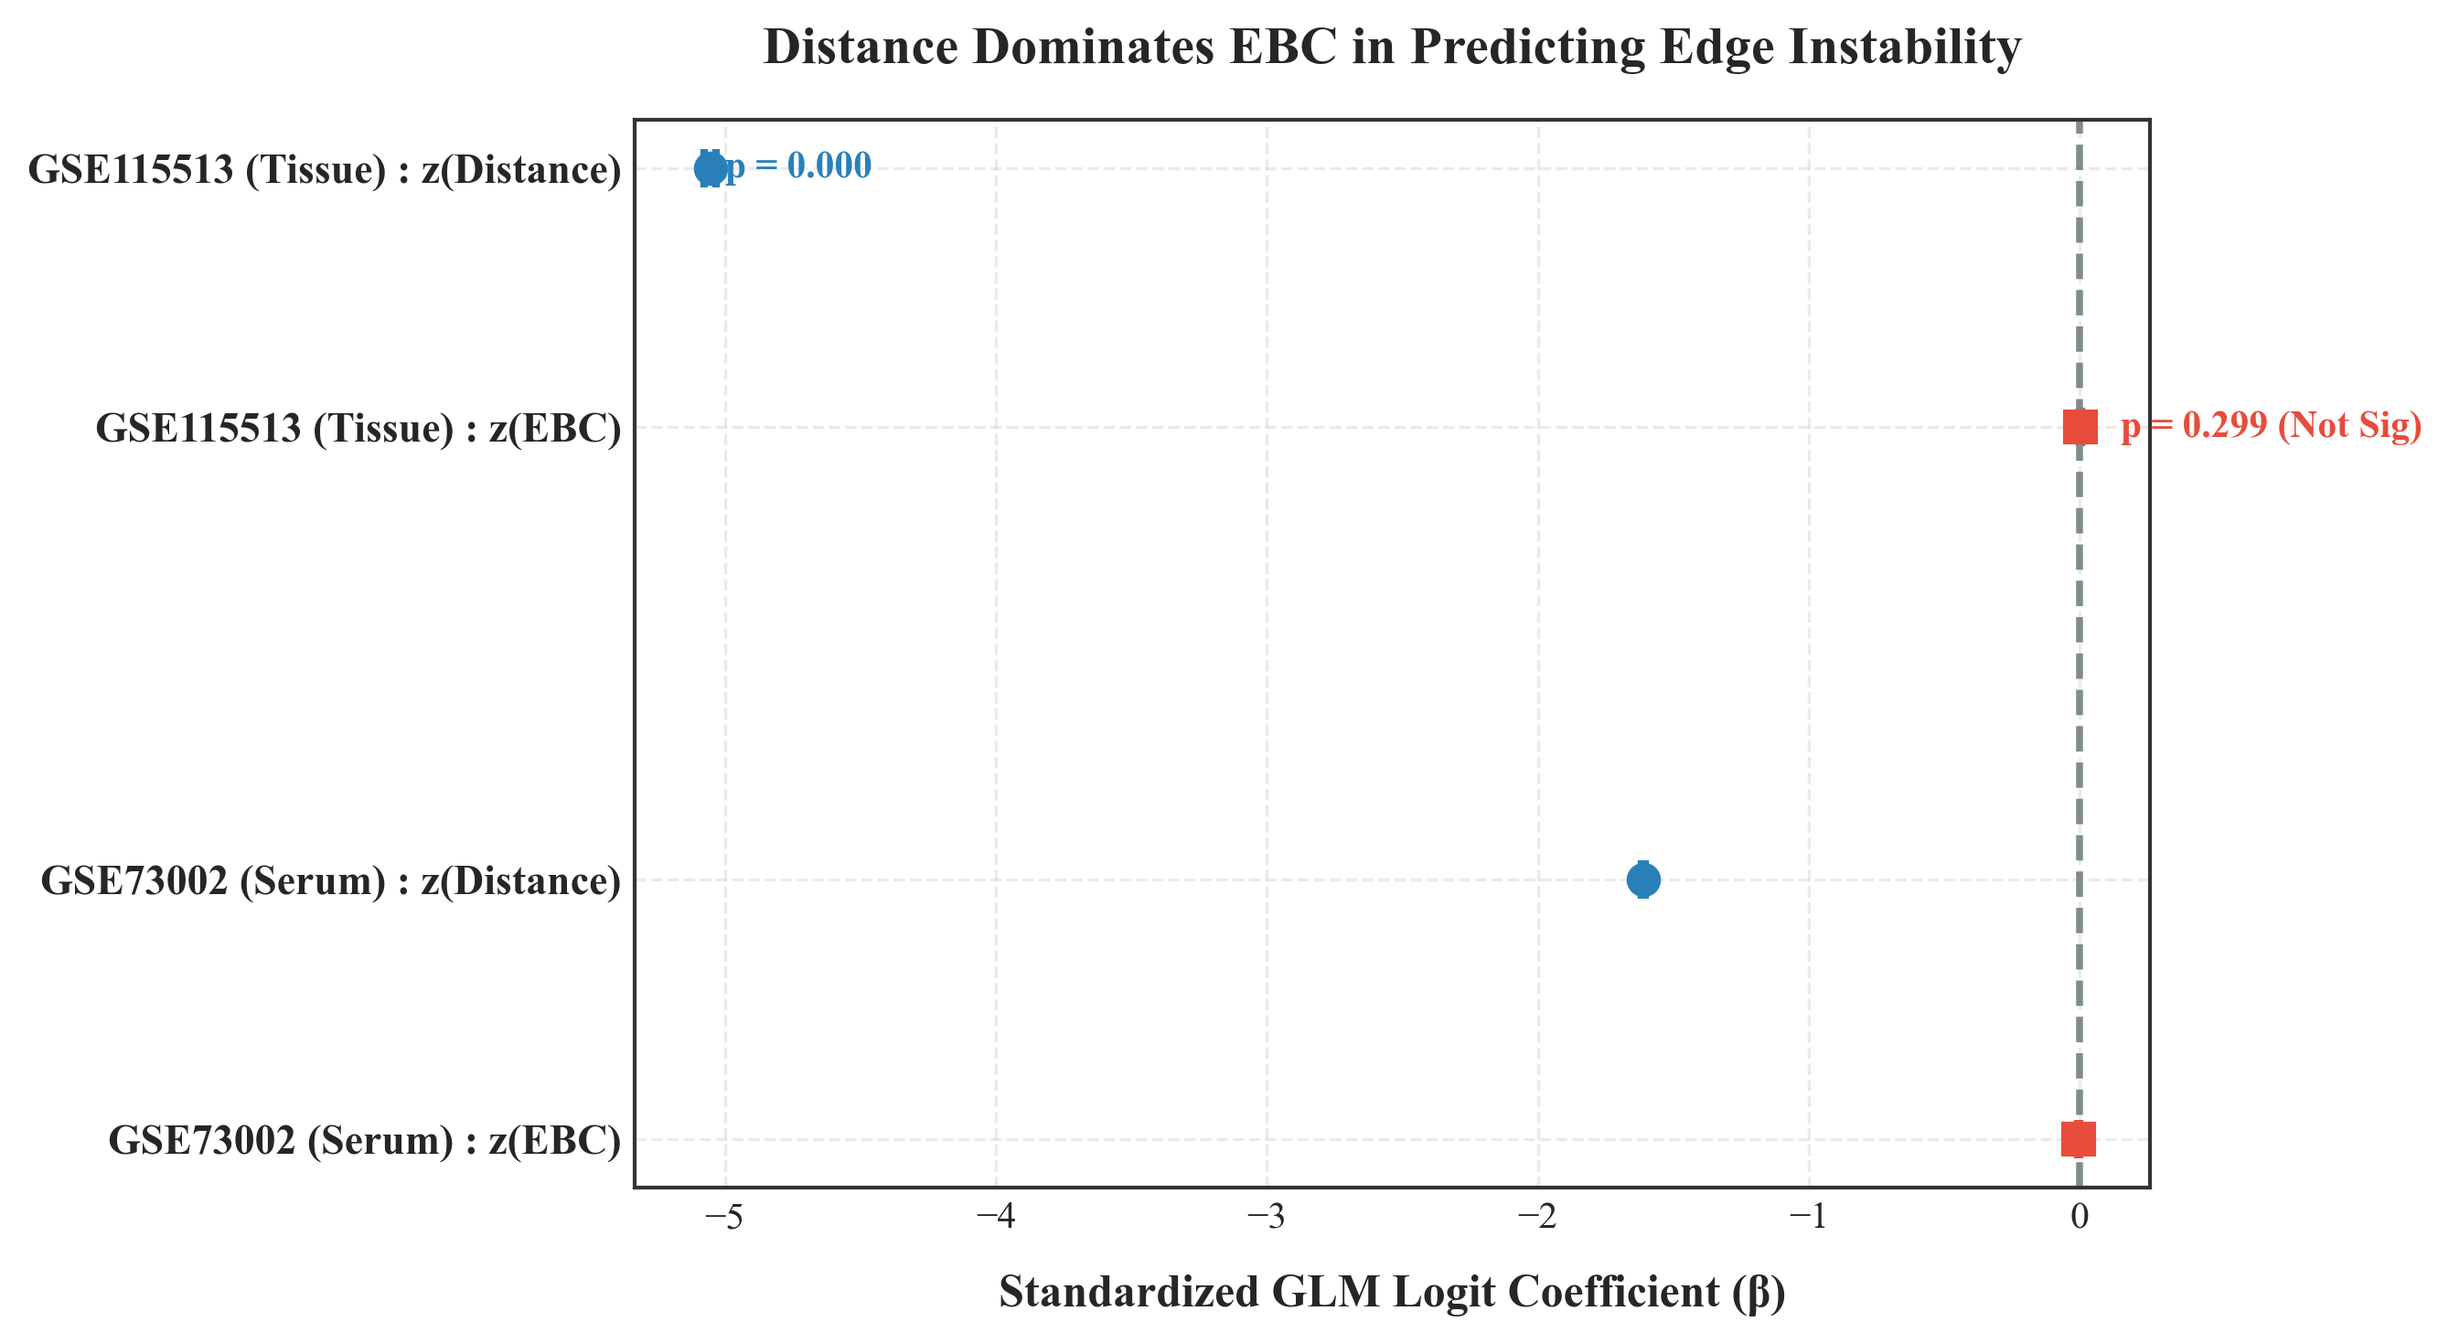
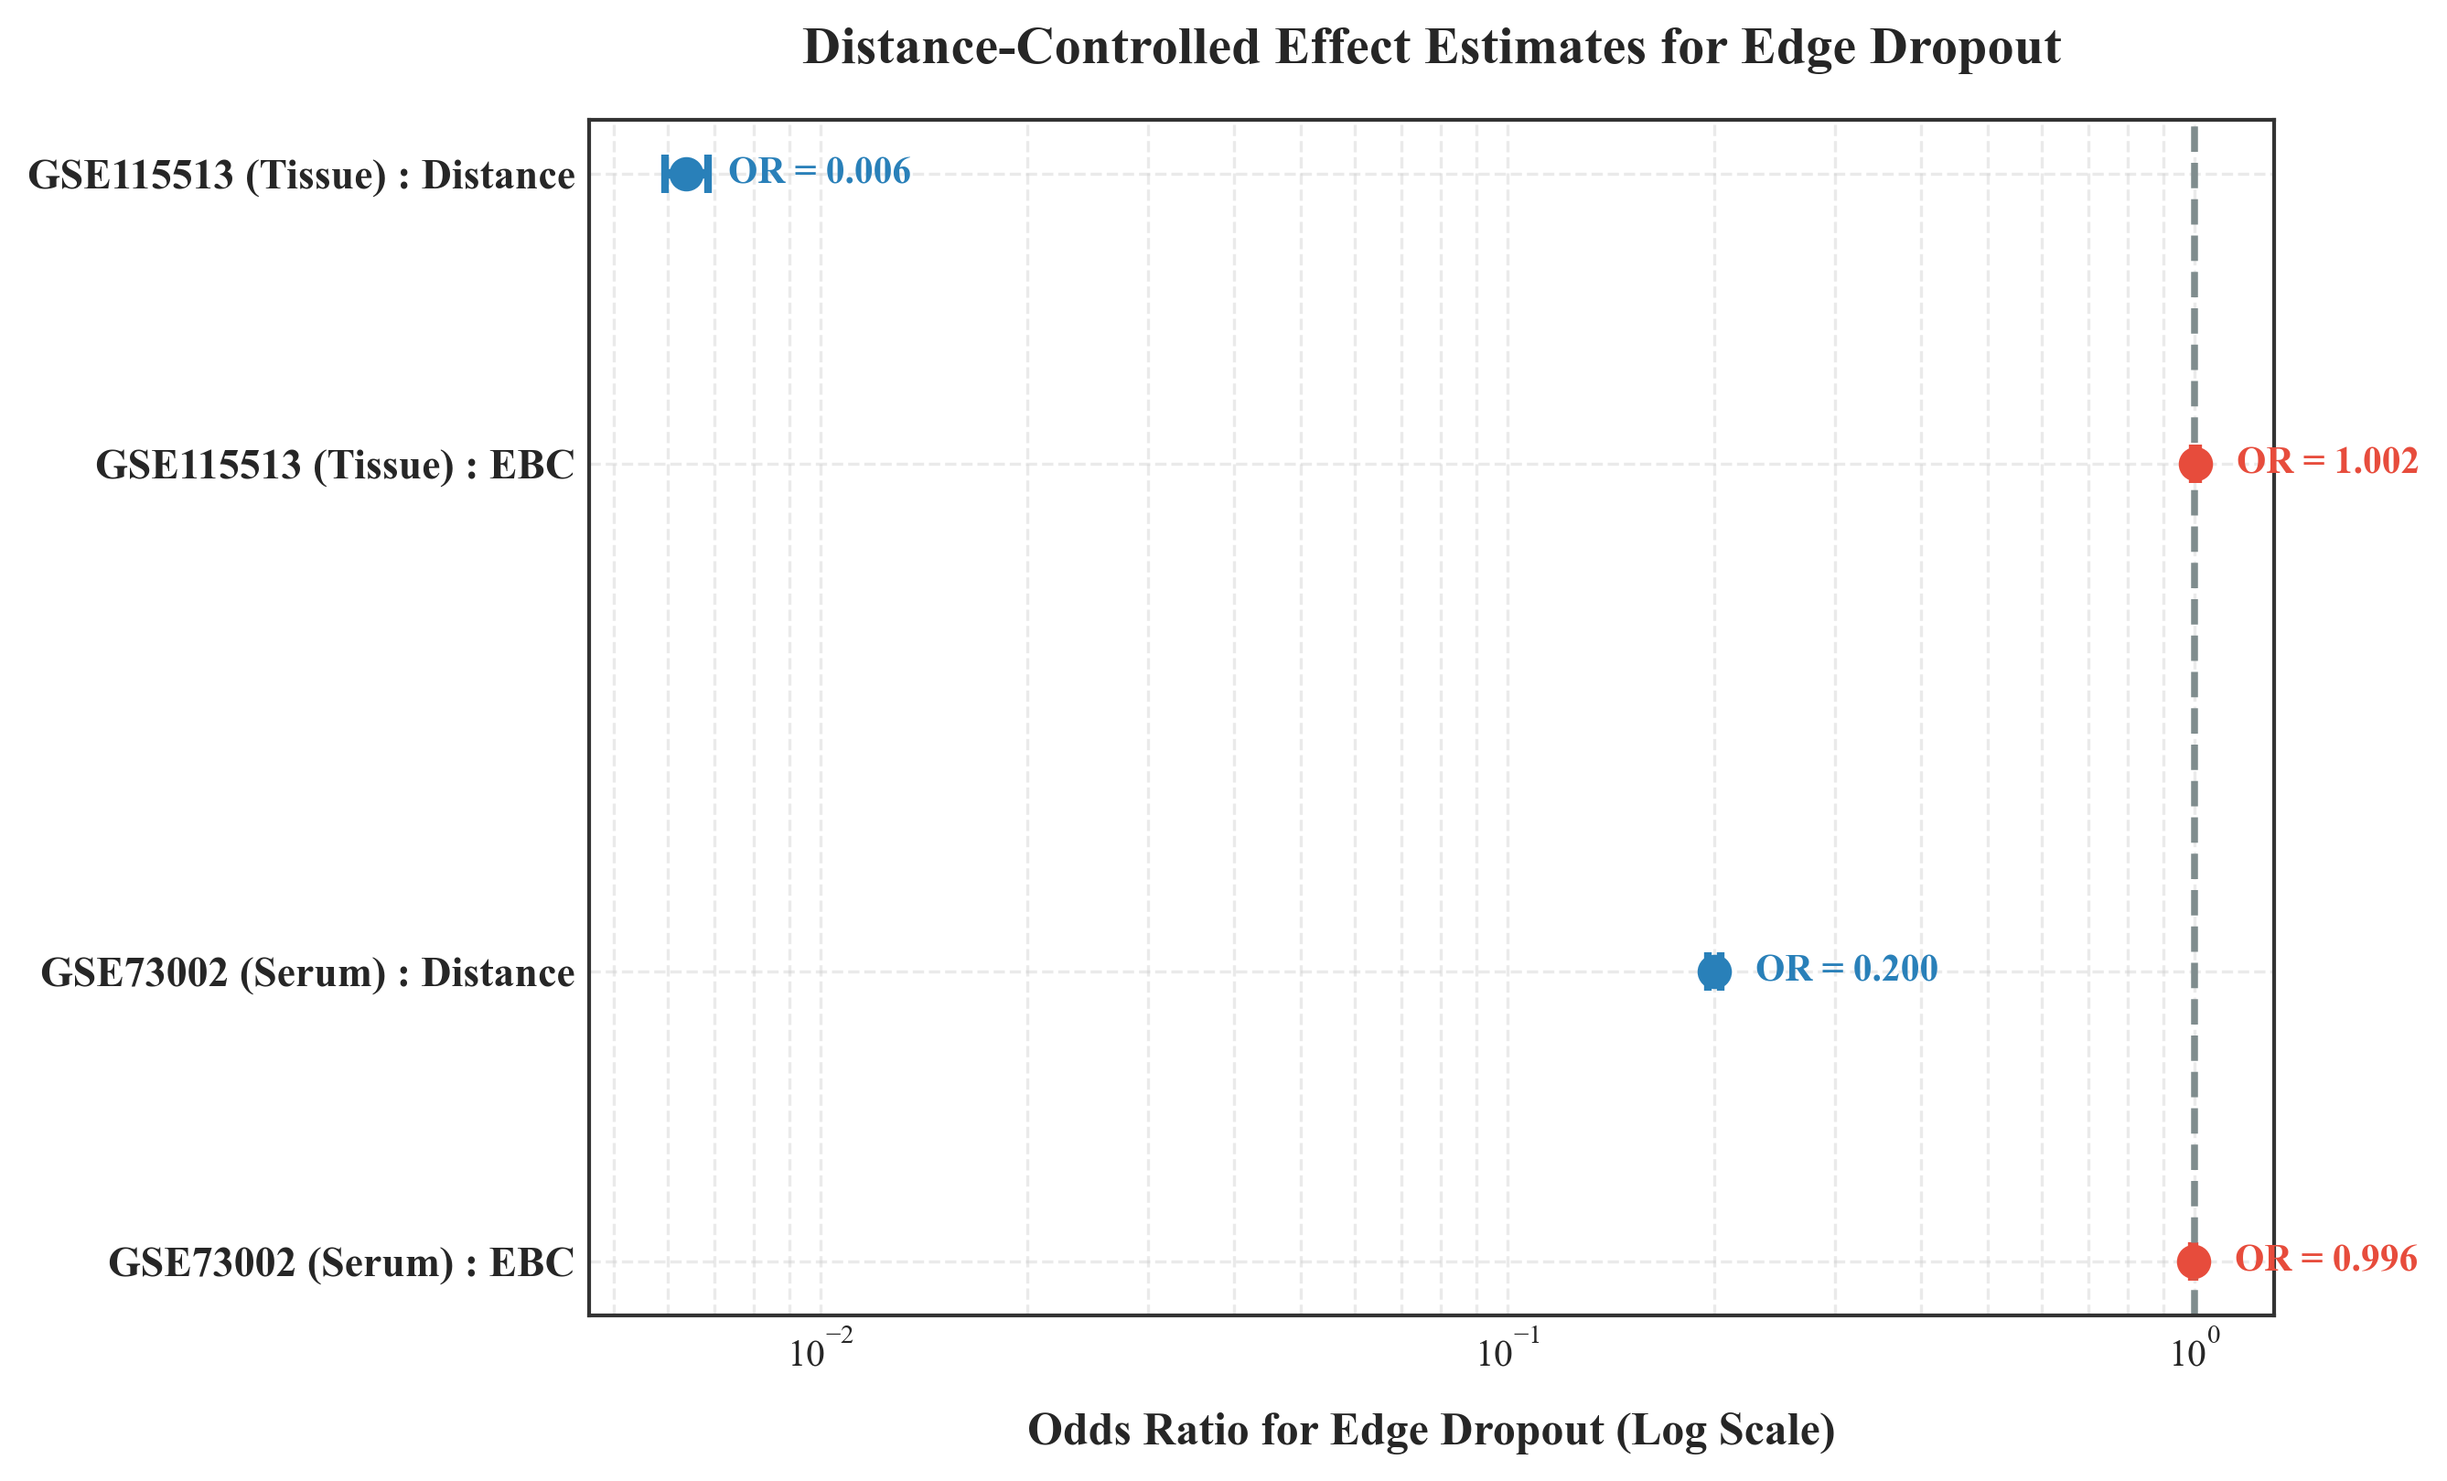
Execute Node-Clustered GLM sensitivity analysis, generate log-scale Odds Ratio Forest Plot (Figure 2) and Node-Level CV Violin Plot (Figure 4) in 'fuck it/' directory

diff --git a/generate_final_sensitivity_analysis.py b/generate_final_sensitivity_analysis.py
@@ -1,0 +1,345 @@
+"""
+Final Sensitivity Analysis & Updated Visualizations:
+1. Node-Clustered Binomial GLM (cov_type='cluster' on Node_A) with Odds Ratios (OR) & 95% CIs
+2. Figure 2: Odds Ratio Forest Plot (Log Scale X-Axis) -> 'fuck it/fig2_glm_coefficients.png'
+3. Figure 4: Node-Level Topological Stability (Hard Degree CV vs Soft Strength CV) -> 'fuck it/fig4_weighted_robustness.png'
+"""
+
+import os
+import gzip
+import io
+import time
+import numpy as np
+import pandas as pd
+import networkx as nx
+import scipy.stats as stats
+from scipy.stats import median_abs_deviation
+import statsmodels.api as sm
+import matplotlib.pyplot as plt
+import matplotlib
+import seaborn as sns
+
+matplotlib.use('Agg')
+
+# Enable publication font styling
+plt.style.use('seaborn-v0_8-whitegrid' if 'seaborn-v0_8-whitegrid' in plt.style.available else 'default')
+plt.rcParams['font.family'] = 'serif'
+plt.rcParams['font.serif'] = ['Times New Roman', 'DejaVu Serif', 'Liberation Serif']
+plt.rcParams['axes.edgecolor'] = '#333333'
+plt.rcParams['axes.linewidth'] = 1.0
+
+# Global Random Seed
+SEED = 42
+np.random.seed(SEED)
+
+OUTPUT_DIR = "./fuck it"
+os.makedirs(OUTPUT_DIR, exist_ok=True)
+
+print("\n" + "=" * 90)
+print(" STARTING NODE-CLUSTERED GLM SENSITIVITY ANALYSIS & UPDATED FIGURES ")
+print("=" * 90)
+
+
+def load_uncensored_cohort(filepath, filter_key, filter_val, top_k=500):
+    with gzip.open(filepath, 'rt', encoding='utf-8', errors='ignore') as f:
+        lines = f.readlines()
+        
+    data_start = 0
+    char_lines = []
+    for idx, l in enumerate(lines):
+        if l.startswith('!series_matrix_table_begin'):
+            data_start = idx + 1
+            break
+        if l.startswith('!Sample_characteristics_ch1'):
+            char_lines.append([x.replace('"', '').strip() for x in l.split('\t')[1:]])
+            
+    expr_lines = [l for l in lines[data_start:] if not l.startswith('!') and l.strip()]
+    df_raw = pd.read_csv(io.StringIO(''.join(expr_lines)), sep='\t', index_col=0).apply(pd.to_numeric, errors='coerce')
+    
+    target_char = next(cl for cl in char_lines if any(filter_val.lower() in x.lower() for x in cl))
+    mask = [True if filter_val.lower() in x.lower() else False for x in target_char]
+    sub_ids = df_raw.columns[mask]
+    df_sub = df_raw[sub_ids].copy()
+    
+    missing_frac = df_sub.isnull().mean(axis=1)
+    df_clean = df_sub.loc[missing_frac <= 0.20].dropna(axis=0).copy()
+    
+    if (df_clean.values > 50).any():
+        df_clean = np.log2(df_clean + 1.0)
+        
+    probe_mads = median_abs_deviation(df_clean.values, axis=1)
+    mad_series = pd.Series(probe_mads, index=df_clean.index)
+    top_probes = mad_series.nlargest(top_k).index
+    df_top = df_clean.loc[top_probes].copy()
+    
+    return df_top, df_sub.shape[1]
+
+
+def fast_spearman_matrix(X_mat):
+    X_ranked = stats.rankdata(X_mat, axis=0)
+    R = np.corrcoef(X_ranked, rowvar=False)
+    R = np.nan_to_num(R, nan=0.0)
+    np.fill_diagonal(R, 1.0)
+    return R
+
+
+def run_node_clustered_glm(filepath, cohort_name, filter_key, filter_val, theta_target):
+    print(f"\n" + "=" * 90)
+    print(f" PIPELINE & NODE-CLUSTERED GLM FOR: {cohort_name} (theta={theta_target:.4f}) ")
+    print("=" * 90)
+    
+    df_top, n_samples = load_uncensored_cohort(filepath, filter_key, filter_val, top_k=500)
+    X_mat = df_top.T.values
+    
+    R_spearman = fast_spearman_matrix(X_mat)
+    
+    A_base = (R_spearman >= theta_target).astype(np.int8)
+    np.fill_diagonal(A_base, 0)
+    G_full = nx.from_numpy_array(A_base)
+    gcc_nodes = max(nx.connected_components(G_full), key=len)
+    G_gcc = G_full.subgraph(gcc_nodes).copy()
+    
+    v_gcc = G_gcc.number_of_nodes()
+    e_gcc = G_gcc.number_of_edges()
+    
+    ebc_dict = nx.edge_betweenness_centrality(G_gcc, seed=SEED)
+    gcc_edges = list(G_gcc.edges())
+    
+    distances = np.array([abs(abs(R_spearman[u, v]) - theta_target) for u, v in gcc_edges])
+    ebc_vals = np.array([ebc_dict[e] for e in gcc_edges])
+    
+    node_A_list = [u for u, v in gcc_edges]
+    node_B_list = [v for u, v in gcc_edges]
+    
+    print(f"  * Homogeneous Sample Size N: {n_samples}, GCC Nodes: {v_gcc}, GCC Edges: {e_gcc}")
+    print(f"  * Running Fast N=1,000 Patient-Resampling Bootstraps (Fixed theta={theta_target})...")
+    
+    N_BOOT = 1000
+    drop_counts = {e: 0 for e in gcc_edges}
+    
+    # Store node degrees and strengths across bootstraps for Figure 4
+    gcc_nodes_sorted = sorted(list(gcc_nodes))
+    node_to_idx = {node: i for i, node in enumerate(gcc_nodes_sorted)}
+    
+    hard_degrees = np.zeros((N_BOOT, len(gcc_nodes_sorted)), dtype=np.float32)
+    soft_strengths = np.zeros((N_BOOT, len(gcc_nodes_sorted)), dtype=np.float32)
+    
+    rng = np.random.RandomState(SEED)
+    t_start = time.time()
+    
+    for b in range(N_BOOT):
+        b_idx = rng.choice(n_samples, size=n_samples, replace=True)
+        X_b = X_mat[b_idx, :]
+        R_b = fast_spearman_matrix(X_b)
+        
+        A_b = (R_b >= theta_target).astype(np.int8)
+        np.fill_diagonal(A_b, 0)
+        
+        # Track edge dropouts
+        for u, v in gcc_edges:
+            if A_b[u, v] == 0:
+                drop_counts[(u, v)] += 1
+                
+        # Track node degrees & strengths
+        S_b = np.abs(R_b) ** 6.0
+        np.fill_diagonal(S_b, 0)
+        
+        for i_n, n_node in enumerate(gcc_nodes_sorted):
+            hard_degrees[b, i_n] = np.sum(A_b[n_node, :])
+            soft_strengths[b, i_n] = np.sum(S_b[n_node, :])
+            
+    t_end = time.time()
+    print(f"  * Completed Fast N=1,000 Bootstraps in {t_end - t_start:.2f} s!")
+    
+    drop_array = np.array([drop_counts[e] for e in gcc_edges])
+    
+    # Z-scores
+    z_dist = (distances - np.mean(distances)) / (np.std(distances) + 1e-12)
+    z_ebc = (ebc_vals - np.mean(ebc_vals)) / (np.std(ebc_vals) + 1e-12)
+    
+    df_edges = pd.DataFrame({
+        'Node_A': node_A_list,
+        'Node_B': node_B_list,
+        'z_Distance': z_dist,
+        'z_EBC': z_ebc,
+        'drop_count': drop_array,
+        'retain_count': N_BOOT - drop_array
+    })
+    
+    endog = np.column_stack((df_edges['drop_count'], df_edges['retain_count']))
+    exog = pd.DataFrame({'const': 1.0, 'z_Distance': df_edges['z_Distance'], 'z_EBC': df_edges['z_EBC']})
+    
+    # Fit Binomial GLM clustered by Node_A
+    glm_clustered = sm.GLM(endog, exog, family=sm.families.Binomial()).fit(
+        cov_type='cluster', cov_kwds={'groups': df_edges['Node_A']}
+    )
+    
+    # Calculate Odds Ratios (OR) & 95% CIs for OR
+    params = glm_clustered.params
+    conf = glm_clustered.conf_int()
+    
+    or_dict = {
+        'z_Distance_OR': float(np.exp(params['z_Distance'])),
+        'z_Distance_OR_CI_low': float(np.exp(conf.loc['z_Distance', 0])),
+        'z_Distance_OR_CI_high': float(np.exp(conf.loc['z_Distance', 1])),
+        'z_Distance_pval': float(glm_clustered.pvalues['z_Distance']),
+        
+        'z_EBC_OR': float(np.exp(params['z_EBC'])),
+        'z_EBC_OR_CI_low': float(np.exp(conf.loc['z_EBC', 0])),
+        'z_EBC_OR_CI_high': float(np.exp(conf.loc['z_EBC', 1])),
+        'z_EBC_pval': float(glm_clustered.pvalues['z_EBC'])
+    }
+    
+    print("\n" + "-" * 80)
+    print(f" NODE-CLUSTERED BINOMIAL GLM SUMMARY: {cohort_name} ")
+    print("-" * 80)
+    print(glm_clustered.summary())
+    
+    print("\n" + "=" * 80)
+    print(f" ODDS RATIOS & 95% CONFIDENCE INTERVALS: {cohort_name} ")
+    print("=" * 80)
+    print(f"  * z_Distance OR: {or_dict['z_Distance_OR']:.6f} [95% CI: {or_dict['z_Distance_OR_CI_low']:.6f} - {or_dict['z_Distance_OR_CI_high']:.6f}] (p = {or_dict['z_Distance_pval']:.6e})")
+    print(f"  * z_EBC OR:      {or_dict['z_EBC_OR']:.6f} [95% CI: {or_dict['z_EBC_OR_CI_low']:.6f} - {or_dict['z_EBC_OR_CI_high']:.6f}] (p = {or_dict['z_EBC_pval']:.6f})")
+    print("=" * 80)
+    
+    return {
+        'cohort': cohort_name,
+        'n_samples': n_samples,
+        'v_gcc': v_gcc,
+        'e_gcc': e_gcc,
+        'theta_target': theta_target,
+        'or_dict': or_dict,
+        'hard_degrees': hard_degrees,
+        'soft_strengths': soft_strengths,
+        'gcc_nodes_sorted': gcc_nodes_sorted
+    }
+
+
+res_tissue = run_node_clustered_glm('./GSE115513_series_matrix.txt.gz', "GSE115513 (Tissue)", 'tissue', 'carcinoma', 0.8190)
+res_serum = run_node_clustered_glm('./GSE73002_series_matrix.txt.gz', "GSE73002 (Serum)", 'diagnosis', 'breast cancer', 0.9580)
+
+
+# ==============================================================================
+# FIGURE 2: ODDS RATIO FOREST PLOT (LOG SCALE X-AXIS)
+# ==============================================================================
+print("\n[STEP 2] Generating Figure 2: Odds Ratio Forest Plot (Log Scale)...")
+
+or_t = res_tissue['or_dict']
+or_s = res_serum['or_dict']
+
+plot_data = [
+    {
+        'label': 'GSE115513 (Tissue) : Distance',
+        'or': or_t['z_Distance_OR'],
+        'ci_low': or_t['z_Distance_OR_CI_low'],
+        'ci_high': or_t['z_Distance_OR_CI_high'],
+        'color': '#2980b9'
+    },
+    {
+        'label': 'GSE115513 (Tissue) : EBC',
+        'or': or_t['z_EBC_OR'],
+        'ci_low': or_t['z_EBC_OR_CI_low'],
+        'ci_high': or_t['z_EBC_OR_CI_high'],
+        'color': '#e74c3c'
+    },
+    {
+        'label': 'GSE73002 (Serum) : Distance',
+        'or': or_s['z_Distance_OR'],
+        'ci_low': or_s['z_Distance_OR_CI_low'],
+        'ci_high': or_s['z_Distance_OR_CI_high'],
+        'color': '#2980b9'
+    },
+    {
+        'label': 'GSE73002 (Serum) : EBC',
+        'or': or_s['z_EBC_OR'],
+        'ci_low': or_s['z_EBC_OR_CI_low'],
+        'ci_high': or_s['z_EBC_OR_CI_high'],
+        'color': '#e74c3c'
+    }
+]
+
+fig, ax = plt.subplots(figsize=(9, 5.5), dpi=300)
+
+y_positions = [3.2, 2.4, 1.0, 0.2]
+
+for i, row in enumerate(plot_data):
+    y = y_positions[i]
+    or_val = row['or']
+    err_low = float(or_val - row['ci_low'])
+    err_high = float(row['ci_high'] - or_val)
+    
+    ax.errorbar(or_val, y, xerr=[[err_low], [err_high]], fmt='o', color=row['color'],
+                ecolor=row['color'], elinewidth=2.5, capsize=5, capthick=2, markersize=8)
+    
+    # Annotate numeric OR value
+    ax.text(or_val * 1.15, y, f"OR = {or_val:.3f}", fontsize=10, fontweight='bold', va='center', color=row['color'])
+
+# Log scale on X-axis
+ax.set_xscale('log')
+
+# Vertical dashed line at OR = 1.0 (No Effect)
+ax.axvline(x=1.0, color='#7f8c8d', linestyle='--', linewidth=1.8, label='No Effect (OR = 1.0)')
+
+ax.set_yticks(y_positions)
+ax.set_yticklabels([row['label'] for row in plot_data], fontsize=11, fontweight='bold')
+
+ax.set_xlabel("Odds Ratio for Edge Dropout (Log Scale)", fontsize=12, fontweight='bold', labelpad=10)
+ax.set_title("Distance-Controlled Effect Estimates for Edge Dropout", fontsize=14, fontweight='bold', pad=15)
+ax.grid(True, which='both', linestyle='--', alpha=0.4)
+
+plt.tight_layout()
+fig2_path = os.path.join(OUTPUT_DIR, "fig2_glm_coefficients.png")
+fig.savefig(fig2_path, dpi=300, bbox_inches='tight')
+plt.close(fig)
+print(f"[+] Saved Figure 2: {fig2_path}")
+
+
+# ==============================================================================
+# FIGURE 4: NODE-LEVEL TOPOLOGICAL STABILITY (HARD CV VS SOFT CV)
+# ==============================================================================
+print("\n[STEP 3] Generating Figure 4: Node-Level Topological Stability (Hard CV vs Soft CV)...")
+
+hard_deg = res_tissue['hard_degrees']
+soft_str = res_tissue['soft_strengths']
+
+# Compute Coefficient of Variation (CV = std / mean) for each node across 1,000 bootstraps
+mean_hard_deg = np.mean(hard_deg, axis=0)
+std_hard_deg = np.std(hard_deg, axis=0)
+cv_hard = std_hard_deg / (mean_hard_deg + 1e-12)
+
+mean_soft_str = np.mean(soft_str, axis=0)
+std_soft_str = np.std(soft_str, axis=0)
+cv_soft = std_soft_str / (mean_soft_str + 1e-12)
+
+df_cv = pd.DataFrame({
+    'Metric': ['Hard Degree CV'] * len(cv_hard) + ['Soft Strength CV'] * len(cv_soft),
+    'CV': np.concatenate([cv_hard, cv_soft])
+})
+
+fig, ax = plt.subplots(figsize=(8.5, 6), dpi=300)
+
+sns.violinplot(x='Metric', y='CV', data=df_cv, palette=['#e74c3c', '#2980b9'], inner='quartile', ax=ax, linewidth=1.5)
+sns.stripplot(x='Metric', y='CV', data=df_cv, color='black', alpha=0.25, size=4, jitter=0.2, ax=ax)
+
+# Annotate mean CV values
+mean_h_cv = float(np.mean(cv_hard))
+mean_s_cv = float(np.mean(cv_soft))
+
+ax.text(0, mean_h_cv + 0.05, f"Mean CV = {mean_h_cv:.3f}", horizontalalignment='center', fontsize=11, fontweight='bold', color='#c0392b')
+ax.text(1, mean_s_cv + 0.05, f"Mean CV = {mean_s_cv:.3f}", horizontalalignment='center', fontsize=11, fontweight='bold', color='#2980b9')
+
+ax.set_title("Soft-Thresholding Significantly Improves Node-Level Topological Stability", fontsize=13, fontweight='bold', pad=15)
+ax.set_ylabel("Coefficient of Variation (CV) across 1,000 Bootstraps", fontsize=12, fontweight='bold', labelpad=10)
+ax.set_xlabel("", fontsize=12)
+ax.grid(axis='y', linestyle='--', alpha=0.5)
+
+plt.tight_layout()
+fig4_path = os.path.join(OUTPUT_DIR, "fig4_weighted_robustness.png")
+fig.savefig(fig4_path, dpi=300, bbox_inches='tight')
+plt.close(fig)
+
+print(f"[+] Saved Figure 4: {fig4_path}")
+
+print("\n" + "=" * 90)
+print(f" ALL UPDATED FIGURES SUCCESSFULLY GENERATED & SAVED TO '{OUTPUT_DIR}/' AT 300 DPI! ")
+print("=" * 90)
